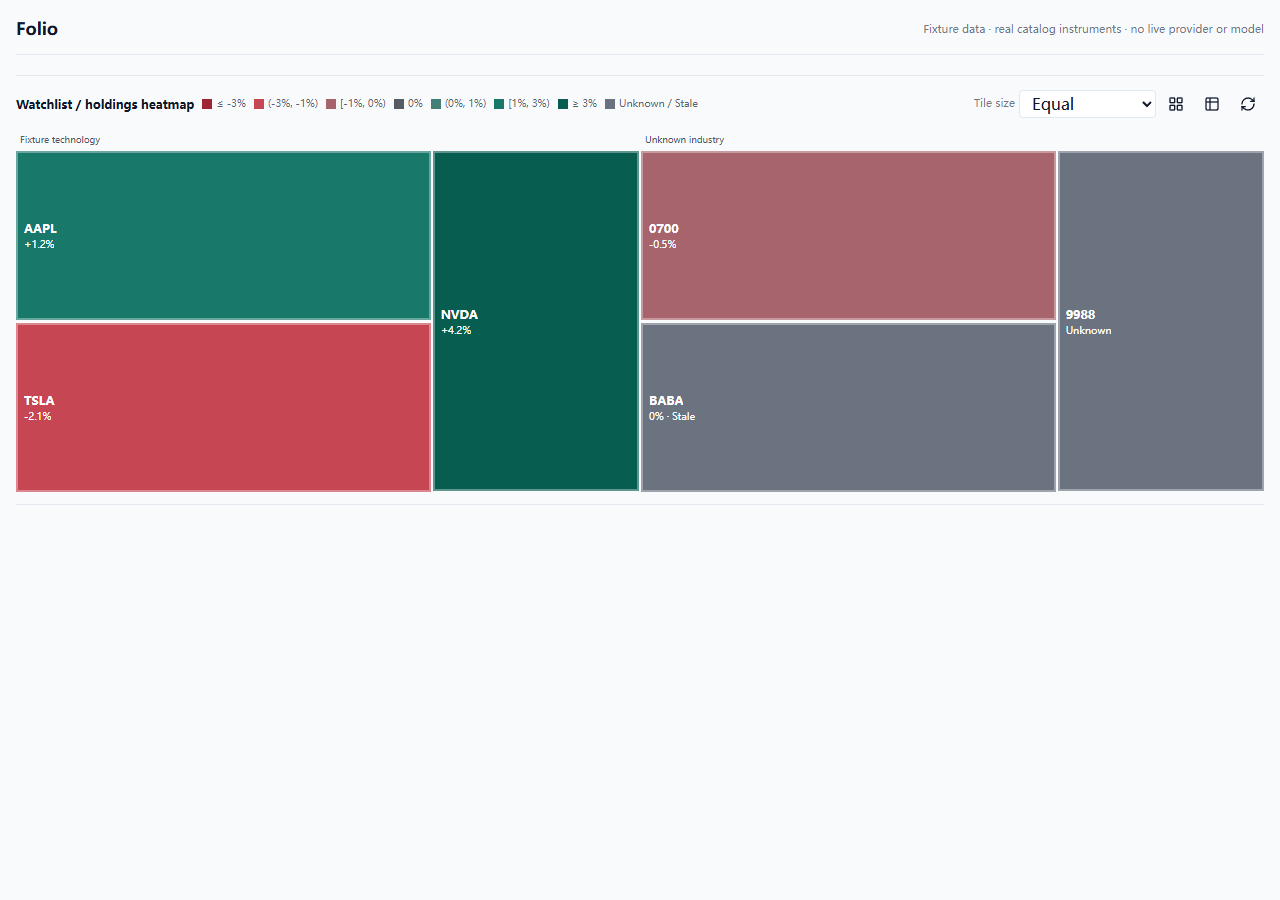
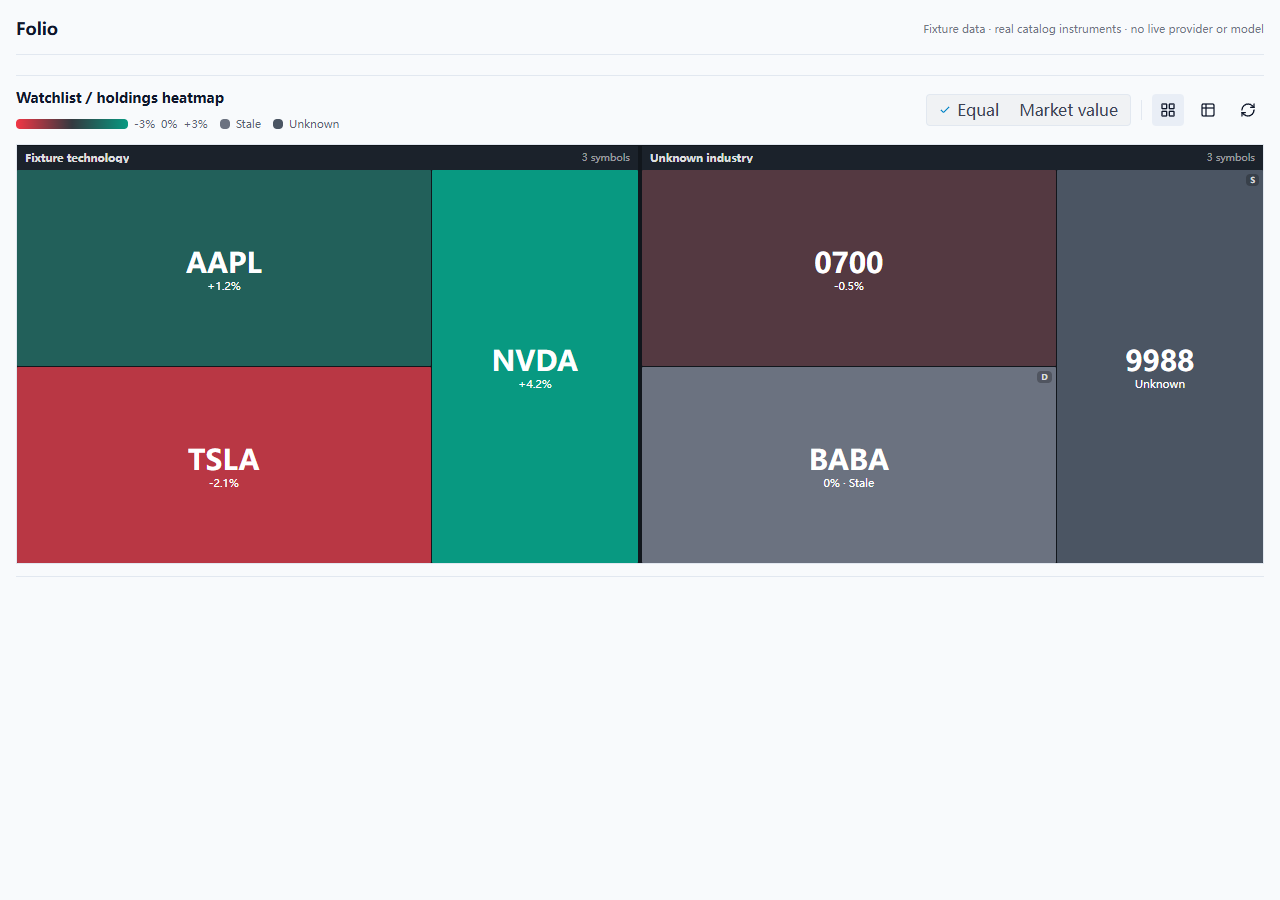
style(heatmap): 参考 TradingView 优化热力图视觉

diff --git a/packages/ui/src/components/heatmap/HeatmapPanel.tsx b/packages/ui/src/components/heatmap/HeatmapPanel.tsx
@@ -1,7 +1,7 @@
 import React, { useEffect, useMemo, useRef, useState } from 'react';
 import { hierarchy, treemap, treemapSquarify } from 'd3-hierarchy';
 import { useTranslation } from 'react-i18next';
-import { RefreshCw, Table2, LayoutGrid } from 'lucide-react';
+import { RefreshCw, Table2, LayoutGrid, Check } from 'lucide-react';
 import { formatDateTime, formatPercent, formatPercentRatio } from '@finagent/i18n';
 import type { HeatmapSnapshot, HeatmapSourceSnapshot, HeatmapTile } from '@finagent/core';
 import { heatmapColor } from '@finagent/core';
@@ -14,15 +14,17 @@ type DisplayMode = 'equal' | 'weight';
 type ViewMode = 'map' | 'table';
 type HeatmapNode = { key?: string; children?: HeatmapNode[]; tile?: HeatmapTile; value?: number };
 let requestSequence = 0;
-const legend = [
-  { value: -3, label: '≤ -3%' },
-  { value: -2, label: '(-3%, -1%)' },
-  { value: -0.5, label: '[-1%, 0%)' },
-  { value: 0, label: '0%' },
-  { value: 0.5, label: '(0%, 1%)' },
-  { value: 2, label: '[1%, 3%)' },
-  { value: 3, label: '≥ 3%' },
-];
+export const HEATMAP_TEXT_THRESHOLDS = { medium: 34, large: 72 } as const;
+
+export function heatmapTileTextScale(width: number, height: number): 'large' | 'medium' | 'small' | 'hidden' {
+  const size = Math.min(width, height);
+  if (size >= HEATMAP_TEXT_THRESHOLDS.large) return 'large';
+  if (size >= HEATMAP_TEXT_THRESHOLDS.medium) return 'medium';
+  if (size >= 18) return 'small';
+  return 'hidden';
+}
+
+const HEATMAP_GROUP_HEADER_HEIGHT = 24;
 
 export function heatmapRectangles(snapshot: HeatmapSnapshot, mode: DisplayMode, width: number, height: number) {
   const grouped = new Map<string, { tile: HeatmapTile; value: number }[]>();
@@ -42,13 +44,17 @@ export function heatmapRectangles(snapshot: HeatmapSnapshot, mode: DisplayMode, 
   const root = hierarchy<HeatmapNode>({ children: data })
     .sum((node) => (typeof node.value === 'number' ? node.value : 0))
     .sort((a, b) => (b.value ?? 0) - (a.value ?? 0));
-  const layout = treemap<HeatmapNode>().tile(treemapSquarify).size([width, height]).paddingInner(2)
-    .paddingTop((node) => node.depth === 1 ? 18 : 2)(root);
+  const layout = treemap<HeatmapNode>().tile(treemapSquarify).size([width, height])
+    .paddingInner((node) => node.depth === 0 ? 4 : 1)
+    .paddingTop((node) => node.depth === 1 ? HEATMAP_GROUP_HEADER_HEIGHT : 1)(root);
   return {
     groups: (layout.children ?? []).map((group) => ({
       key: group.data.key ?? '',
       label: group.children?.[0]?.data.tile?.industry?.name ?? '',
-      x: group.x0, y: group.y0, width: group.x1 - group.x0,
+      classification: group.children?.[0]?.data.tile?.industry?.classification,
+      code: group.children?.[0]?.data.tile?.industry?.code,
+      count: group.leaves().length,
+      x: group.x0, y: group.y0, width: group.x1 - group.x0, height: group.y1 - group.y0,
     })),
     tiles: layout.leaves().filter((leaf) => leaf.data.tile).map((leaf) => ({
       tile: leaf.data.tile!,
@@ -160,26 +166,33 @@ export function HeatmapPanel({
   return (
     <section className="space-y-3 border-y border-border py-3" data-testid="heatmap-panel">
       <div className="flex flex-wrap items-center justify-between gap-2">
-        <div className="flex flex-wrap items-center gap-2">
-          <span className="text-[12px] font-semibold">{t('heatmap.title')}</span>
-          <div className="flex flex-wrap items-center gap-2 text-[10px] text-foreground/68" aria-label={t('heatmap.legend')}>
-            {legend.map(({ value, label }) => (
-              <span key={value} className="flex items-center gap-1" aria-label={label}>
-                <span aria-hidden="true" className="h-2.5 w-2.5" style={{ backgroundColor: heatmapColor({ state: 'current', changePercent: value }) }} />
-                <span>{label}</span>
-              </span>
-            ))}
-            <span className="flex items-center gap-1"><span className="h-2.5 w-2.5 bg-gray-500" />{t('heatmap.unknown')} / {t('heatmap.stale')}</span>
+        <div className="min-w-0">
+          <h3 className="text-[14px] font-semibold leading-5">{t('heatmap.title')}</h3>
+          <div className="mt-2 flex flex-wrap items-center gap-x-3 gap-y-1.5 text-[11px] text-foreground/68" aria-label={t('heatmap.legend')}>
+            <span className="flex items-center gap-1.5"><span className="h-2.5 w-28 rounded-sm" style={{ background: 'linear-gradient(90deg, #F23645 0%, #343a40 50%, #089981 100%)' }} aria-hidden="true" /><span>-3%</span><span>0%</span><span>+3%</span></span>
+            <span className="flex items-center gap-1.5"><span className="h-2.5 w-2.5 rounded-sm bg-[#6b7280]" />{t('heatmap.stale')}</span>
+            <span className="flex items-center gap-1.5"><span className="h-2.5 w-2.5 rounded-sm bg-[#4b5563]" />{t('heatmap.unknown')}</span>
           </div>
         </div>
-        <div className="flex items-center gap-1">
-          <label className="text-[11px] text-foreground/58" htmlFor="heatmap-weight">{t('heatmap.size')}</label>
-          <select id="heatmap-weight" value={effectiveMode} onChange={(event) => setDisplayMode(event.target.value as DisplayMode)} className="h-7 rounded border border-border bg-surface px-2 text-[11px]" disabled={source.kind !== 'portfolio' || !snapshot?.weightedAvailable}>
-            <option value="equal">{t('heatmap.equal')}</option>
-            <option value="weight">{t('heatmap.weighted')}</option>
-          </select>
-          <Button variant="ghost" size="icon" title={t('heatmap.map')} aria-label={t('heatmap.map')} aria-pressed={viewMode === 'map'} onClick={() => setViewMode('map')}><LayoutGrid className="h-4 w-4" /></Button>
-          <Button variant="ghost" size="icon" title={t('heatmap.table')} aria-label={t('heatmap.table')} aria-pressed={viewMode === 'table'} onClick={() => setViewMode('table')}><Table2 className="h-4 w-4" /></Button>
+        <div className="flex shrink-0 items-center gap-2">
+          <div role="group" aria-label={t('heatmap.size')} className="heatmap-size-control flex h-8 items-center rounded border border-border bg-foreground/[0.035] p-0.5">
+            {(['equal', 'weight'] as const).map((mode) => (
+              <button
+                key={mode}
+                type="button"
+                aria-pressed={effectiveMode === mode}
+                disabled={mode === 'weight' && (source.kind !== 'portfolio' || !snapshot?.weightedAvailable)}
+                onClick={() => setDisplayMode(mode)}
+                className="flex h-full items-center gap-1.5 rounded-sm px-2.5 text-[11px] font-medium transition-colors disabled:cursor-not-allowed disabled:opacity-40"
+              >
+                {effectiveMode === mode && <Check aria-hidden="true" className="h-3 w-3 text-accent" />}
+                <span className="text-foreground/80">{t(mode === 'weight' ? 'heatmap.weighted' : 'heatmap.equal')}</span>
+              </button>
+            ))}
+          </div>
+          <span className="mx-0.5 h-5 w-px bg-border" aria-hidden="true" />
+          <Button variant="ghost" size="icon" style={viewMode === 'map' ? { backgroundColor: 'var(--surface-hover)' } : undefined} title={t('heatmap.map')} aria-label={t('heatmap.map')} aria-pressed={viewMode === 'map'} onClick={() => setViewMode('map')}><LayoutGrid className="h-4 w-4" /></Button>
+          <Button variant="ghost" size="icon" style={viewMode === 'table' ? { backgroundColor: 'var(--surface-hover)' } : undefined} title={t('heatmap.table')} aria-label={t('heatmap.table')} aria-pressed={viewMode === 'table'} onClick={() => setViewMode('table')}><Table2 className="h-4 w-4" /></Button>
           <Button variant="ghost" size="icon" title={t('heatmap.refresh')} aria-label={t('heatmap.refresh')} onClick={() => setRefresh((value) => value + 1)} disabled={busy}><RefreshCw className={`h-4 w-4 ${busy ? 'animate-spin' : ''}`} /></Button>
         </div>
       </div>
@@ -189,30 +202,37 @@ export function HeatmapPanel({
       {snapshot && snapshot.tiles.length > 0 && (
         <>
           {viewMode === 'map' ? (
-            <div ref={mapRef} className="relative h-[360px] w-full min-w-0 overflow-hidden bg-background" role="group" aria-label={t('heatmap.title')}>
-              {layout.groups.map((group) => <span key={group.key} aria-hidden="true" className="pointer-events-none absolute z-10 truncate px-1 text-[9px] font-medium text-foreground/72" style={{ left: `${group.x / dimensions.width * 100}%`, top: `${group.y / dimensions.height * 100}%`, width: `${group.width / dimensions.width * 100}%` }}>{group.label || t('heatmap.unknownIndustry')}</span>)}
+            <div ref={mapRef} className="relative h-[340px] w-full min-w-0 overflow-hidden border border-border bg-[#11161c] sm:h-[420px]" role="group" aria-label={t('heatmap.title')}>
+              {layout.groups.map((group) => (
+                <div
+                  key={group.key}
+                  aria-hidden="true"
+                  className="pointer-events-none absolute z-10 flex items-center justify-between gap-2 overflow-hidden bg-[#1b222b] px-2 text-white/85"
+                  style={{ left: `${group.x / dimensions.width * 100}%`, top: `${group.y / dimensions.height * 100}%`, width: `${group.width / dimensions.width * 100}%`, height: `${HEATMAP_GROUP_HEADER_HEIGHT}px` }}
+                >
+                  {group.width >= 72 && group.height >= HEATMAP_GROUP_HEADER_HEIGHT && <><span className="min-w-0 truncate text-[11px] font-bold leading-none">{group.label || t('heatmap.unknownIndustry')}</span><span className="shrink-0 text-[10px] text-white/55">{group.width >= 150 ? t('heatmap.instrumentsCount', { count: group.count }) : group.count}</span></>}
+                </div>
+              ))}
               {layout.tiles.map(({ tile, x, y, width, height }) => (
                 <button
                   key={tile.instrument.instrumentId}
                   type="button"
                   onClick={() => openResearch(tile)}
-                  title={[
-                    tile.instrument.name, tile.workspaceSymbol, moveLabel(tile),
-                    tile.industry?.name ?? t('heatmap.unknownIndustry'),
-                    tile.instrument.market, tile.instrument.currency,
-                    tile.weight === null ? '' : formatPercentRatio(tile.weight),
-                    tile.provenance?.providerName ?? t('heatmap.unknown'),
-                    formatDateTime(tile.provenance?.marketTime),
-                    tile.provenance?.delayed ? t('heatmap.delayed') : '',
-                  ].filter(Boolean).join(' · ')}
                   aria-label={`${tile.instrument.name}, ${tile.workspaceSymbol}, ${moveLabel(tile)}. ${t('heatmap.openResearch')}`}
                   aria-pressed={selected?.instrument.instrumentId === tile.instrument.instrumentId}
                   data-testid={`heatmap-tile-${tile.instrument.symbol}`}
-                  className={`absolute flex min-h-0 flex-col items-start justify-center overflow-hidden border-2 p-1.5 text-left text-white focus:z-10 focus:outline focus:outline-2 focus:outline-white ${selected?.instrument.instrumentId === tile.instrument.instrumentId ? 'border-white' : 'border-white/35'}`}
+                  className={`group absolute flex min-h-0 flex-col items-center justify-center overflow-visible rounded-[1px] text-center text-white transition-[filter] duration-100 hover:z-30 hover:brightness-125 focus-visible:z-20 focus-visible:outline focus-visible:outline-2 focus-visible:outline-white ${selected?.instrument.instrumentId === tile.instrument.instrumentId ? 'z-10 outline outline-2 outline-white' : ''}`}
                   style={{ left: `${x / dimensions.width * 100}%`, top: `${y / dimensions.height * 100}%`, width: `${width / dimensions.width * 100}%`, height: `${height / dimensions.height * 100}%`, backgroundColor: heatmapColor(tile), minWidth: 0 }}
                 >
-                  <span className="max-w-full truncate text-[12px] font-semibold">{tile.instrument.symbol}</span>
-                  <span className="max-w-full truncate text-[10px]">{moveLabel(tile)}</span>
+                  {(['large', 'medium'].includes(heatmapTileTextScale(width, height))) && <span className="max-w-full truncate px-1 font-bold leading-tight" style={{ fontSize: `${Math.max(10, Math.min(28, Math.round(Math.min(width, height) * 0.22)))}px` }}>{tile.instrument.symbol}</span>}
+                  {heatmapTileTextScale(width, height) === 'large' && <span className="max-w-full truncate px-1 text-[11px] font-medium leading-tight">{moveLabel(tile)}</span>}
+                  {(tile.state !== 'current' || tile.provenance?.delayed) && <span className="absolute right-1 top-1 rounded bg-black/25 px-1 text-[8px] font-bold uppercase leading-3 text-white/80" aria-label={tile.provenance?.delayed ? t('heatmap.delayed') : t(`heatmap.${tile.state}`)}>{tile.provenance?.delayed ? 'D' : 'S'}</span>}
+                  <span className={`pointer-events-none absolute z-50 w-56 rounded-md border border-white/15 bg-[#11161c]/95 p-2 text-left text-[10px] leading-4 text-white shadow-xl ${y < 90 ? 'top-full mt-1' : 'bottom-full mb-1'} ${x < 110 ? 'left-0' : x + width > dimensions.width - 110 ? 'right-0' : 'left-1/2 -translate-x-1/2'} hidden group-hover:block group-focus-visible:block`}>
+                    <strong className="block truncate text-[11px]">{tile.instrument.name} · {tile.workspaceSymbol}</strong>
+                    <span className="block">{t('heatmap.change')}: {moveLabel(tile)} · {t('heatmap.industry')}: {tile.industry?.name ?? t('heatmap.unknownIndustry')}</span>
+                    <span className="block">{t('heatmap.weight')}: {tile.weight === null ? '—' : formatPercentRatio(tile.weight)} · {t('heatmap.source')}: {tile.provenance?.providerName ?? t('heatmap.unknown')}</span>
+                    <span className="block">{t('heatmap.asOf')}: {formatDateTime(tile.provenance?.marketTime)}</span>
+                  </span>
                 </button>
               ))}
             </div>

diff --git a/packages/ui/src/components/heatmap/HeatmapPanel.test.tsx b/packages/ui/src/components/heatmap/HeatmapPanel.test.tsx
@@ -6,7 +6,7 @@ import { DEFAULT_INSTRUMENT_CATALOG, type HeatmapSnapshot, type HeatmapSourceSna
 import { fallbackClient, FinagentClientProvider, type FinagentClient } from '../../client';
 import { installHappyDom } from '../../test/setupHappyDom';
 import { makeTestI18n, I18nextProvider } from '../../test/i18nTest';
-import { HeatmapPanel, heatmapRectangles } from './HeatmapPanel';
+import { HeatmapPanel, heatmapRectangles, heatmapTileTextScale } from './HeatmapPanel';
 import { watchlistHeatmapSource } from './heatmapSource';
 import { activeSymbolAtom } from '../../atoms';
 
@@ -72,6 +72,12 @@ async function flushAsync(): Promise<void> {
 }
 
 describe('HeatmapPanel', () => {
+  it('uses minimum tile dimension thresholds for readable labels', () => {
+    expect(heatmapTileTextScale(100, 80)).toBe('large');
+    expect(heatmapTileTextScale(60, 40)).toBe('medium');
+    expect(heatmapTileTextScale(30, 20)).toBe('small');
+    expect(heatmapTileTextScale(17, 40)).toBe('hidden');
+  });
   it('keeps a 100-symbol versioned snapshot compact enough for IPC', () => {
     const source = watchlistHeatmapSource(Array.from({ length: 100 }, (_, index) => `T${index}.US`));
     expect(source.entries).toHaveLength(100);
@@ -98,6 +104,7 @@ describe('HeatmapPanel', () => {
     console.info(`heatmap renderer benchmark: 100 fixture securities, ${layout.tiles.length} rectangles, ${(performance.now() - started).toFixed(1)}ms`);
     expect(layout.tiles).toHaveLength(100);
     expect(layout.groups).toHaveLength(10);
+    expect(layout.groups.every((group) => group.count === 10 && group.height > 30)).toBe(true);
     expect(layout.tiles.every((item) => item.x >= 0 && item.y >= 0 && item.x + item.width <= 960.01 && item.y + item.height <= 360.01)).toBe(true);
   });
 
@@ -154,11 +161,25 @@ describe('HeatmapPanel', () => {
   it('shows ratio weights as percentages in tooltips, details, and the same snapshot table', async () => {
     const panel = await mountPanel(createClient(() => ({ ...snapshot, tiles: [{ ...tile, weight: 0.25 }] })));
     const button = panel.host.querySelector('[data-testid="heatmap-tile-AAPL"]') as HTMLButtonElement;
-    expect(button.title).toContain('25%');
+    expect(button.textContent).toContain('25%');
     await act(async () => button.click());
     expect(panel.host.querySelector('[data-testid="heatmap-detail"]')?.textContent).toContain('25%');
     await act(async () => (panel.host.querySelector('[aria-label="Table"]') as HTMLButtonElement).click());
     expect(panel.host.querySelector('[data-testid="heatmap-table"]')?.textContent).toContain('25%');
+    await panel.close();
+  });
+
+  it('presents industry hierarchy and tile-size modes as readable controls', async () => {
+    const nvidia = DEFAULT_INSTRUMENT_CATALOG.find((item) => item.instrumentId === 'XNAS:NVDA')!;
+    const tiles = [tile, { ...tile, instrument: nvidia, workspaceSymbol: 'NVDA.US' }];
+    const panel = await mountPanel(createClient(() => ({ ...snapshot, tiles })));
+    expect(panel.host.textContent).toContain('Technology');
+    expect(panel.host.textContent).toContain('2 symbols');
+    const sizeGroup = panel.host.querySelector('[role="group"]')!;
+    expect(sizeGroup.querySelector('[aria-pressed="true"]')?.textContent).toBe('Equal');
+    expect(sizeGroup.querySelectorAll('button[aria-pressed="true"] svg')).toHaveLength(1);
+    expect((sizeGroup.querySelector('button[aria-pressed="false"]') as HTMLButtonElement).disabled).toBe(true);
+    expect(panel.host.querySelectorAll('[data-testid^="heatmap-tile-"]')).toHaveLength(2);
     await panel.close();
   });
 

diff --git a/packages/core/src/heatmap.ts b/packages/core/src/heatmap.ts
@@ -65,15 +65,28 @@ export function heatmapHoldingValue(
   return { value };
 }
 
-/** Fixed daily-move buckets, shared by the visible legend and tile rendering. */
+const HEATMAP_RED = '#F23645';
+const HEATMAP_NEUTRAL = '#343a40';
+const HEATMAP_GREEN = '#089981';
+const HEATMAP_STALE = '#6b7280';
+const HEATMAP_UNKNOWN = '#4b5563';
+
+function hexToRgb(hex: string): [number, number, number] {
+  return [1, 3, 5].map((offset) => Number.parseInt(hex.slice(offset, offset + 2), 16)) as [number, number, number];
+}
+
+function blend(from: string, to: string, amount: number): string {
+  const a = hexToRgb(from);
+  const b = hexToRgb(to);
+  return `#${a.map((value, index) => Math.round(value + (b[index] - value) * amount).toString(16).padStart(2, '0')).join('')}`;
+}
+
+/** Continuous red-to-green daily-move palette, capped at +/-3%. */
 export function heatmapColor(tile: Pick<HeatmapTile, 'state' | 'changePercent'>): string {
-  if (tile.state !== 'current' || tile.changePercent === null) return '#6b7280';
-  const change = tile.changePercent;
-  if (change <= -3) return '#9f2434';
-  if (change < -1) return '#c74653';
-  if (change < 0) return '#a8646c';
-  if (change === 0) return '#575c63';
-  if (change < 1) return '#428077';
-  if (change < 3) return '#18786a';
-  return '#075e50';
+  if (tile.state === 'stale') return HEATMAP_STALE;
+  if (tile.state !== 'current' || tile.changePercent === null) return HEATMAP_UNKNOWN;
+  const change = Math.max(-3, Math.min(3, tile.changePercent));
+  return change < 0
+    ? blend(HEATMAP_RED, HEATMAP_NEUTRAL, (change + 3) / 3)
+    : blend(HEATMAP_NEUTRAL, HEATMAP_GREEN, change / 3);
 }

diff --git a/packages/core/src/heatmap.test.ts b/packages/core/src/heatmap.test.ts
@@ -15,10 +15,19 @@ describe('heatmap value mapping', () => {
     expect(heatmapHoldingValue({ symbol: 'A.US', name: '', currency: 'USD' }, 'USD', 'USD').exclusion).toBe('missing-value');
   });
 
-  it('renders stale or unavailable returns gray, never as zero change', () => {
-    const tile = { changePercent: null, state: 'unknown' } as Pick<HeatmapTile, 'state' | 'changePercent'>;
-    expect(heatmapColor(tile)).toBe('#6b7280');
-    expect(heatmapColor({ changePercent: 0, state: 'current' })).not.toBe('#6b7280');
+  it('keeps stale and unknown returns distinct from the neutral zero color', () => {
+    expect(heatmapColor({ changePercent: null, state: 'unknown' })).toBe('#4b5563');
     expect(heatmapColor({ changePercent: -4, state: 'stale' })).toBe('#6b7280');
+    expect(heatmapColor({ changePercent: 0, state: 'current' })).not.toBe('#4b5563');
+  });
+
+  it('uses a continuous capped red-to-green palette', () => {
+    const colors = [-5, -3, -0.5, 0, 0.5, 3, 5].map((changePercent) => heatmapColor({ changePercent, state: 'current' }));
+    expect(colors[0]).toBe(colors[1]);
+    expect(colors[5]).toBe(colors[6]);
+    expect(colors[0]).toBe('#f23645');
+    expect(colors[3]).toBe('#343a40');
+    expect(colors[5]).toBe('#089981');
+    expect(new Set(colors).size).toBe(5);
   });
 });

diff --git a/docs/heatmap.md b/docs/heatmap.md
@@ -45,9 +45,13 @@ short entries is excluded rather than representing a gross absolute exposure.
 
 ## Display and selection
 
-D3's treemap groups canonical listings by industry. A fixed visible legend
-shows daily percentage-change bucket boundaries. Positive/negative numbers and
-unknown/stale labels supplement color. Stale and missing quotes are gray;
+D3's treemap groups canonical listings by industry. A TradingView-inspired
+continuous red-to-deep-gray-to-green legend is clamped at -3% and +3%.
+Positive/negative numbers and unknown/stale labels supplement color. Stale and
+unknown returns use separate neutral grays;
+tiles use 1px inner spacing, 4px industry separation, responsive labels, white
+selection outlines, and bounded hover cards with identity, move, industry,
+weight, source, and market time. Stale and missing quotes are gray;
 unknown returns remain null. Delayed quotes, closed sessions, provider-stale
 quotes and quotes older than 15 minutes are marked stale. Demo quotes and
 quotes with missing time or mismatched identity never become current data.
